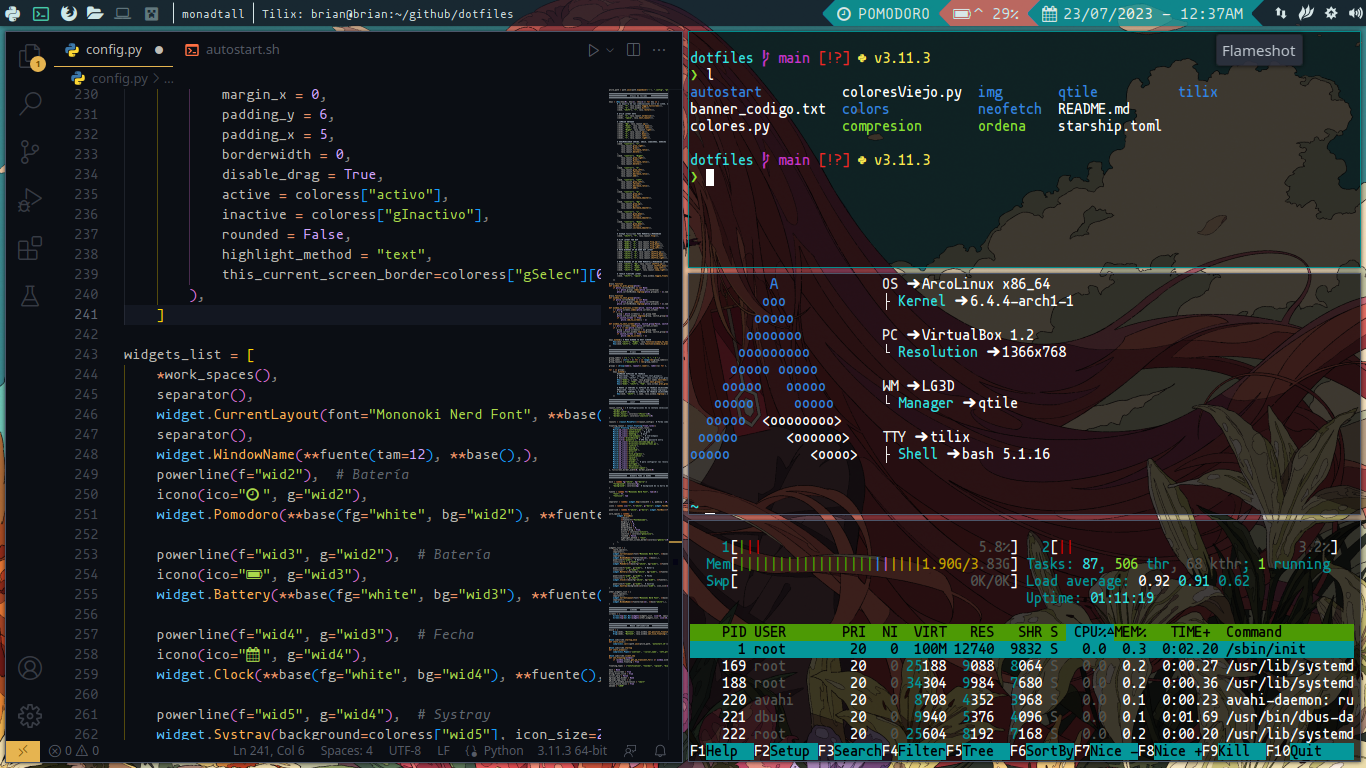
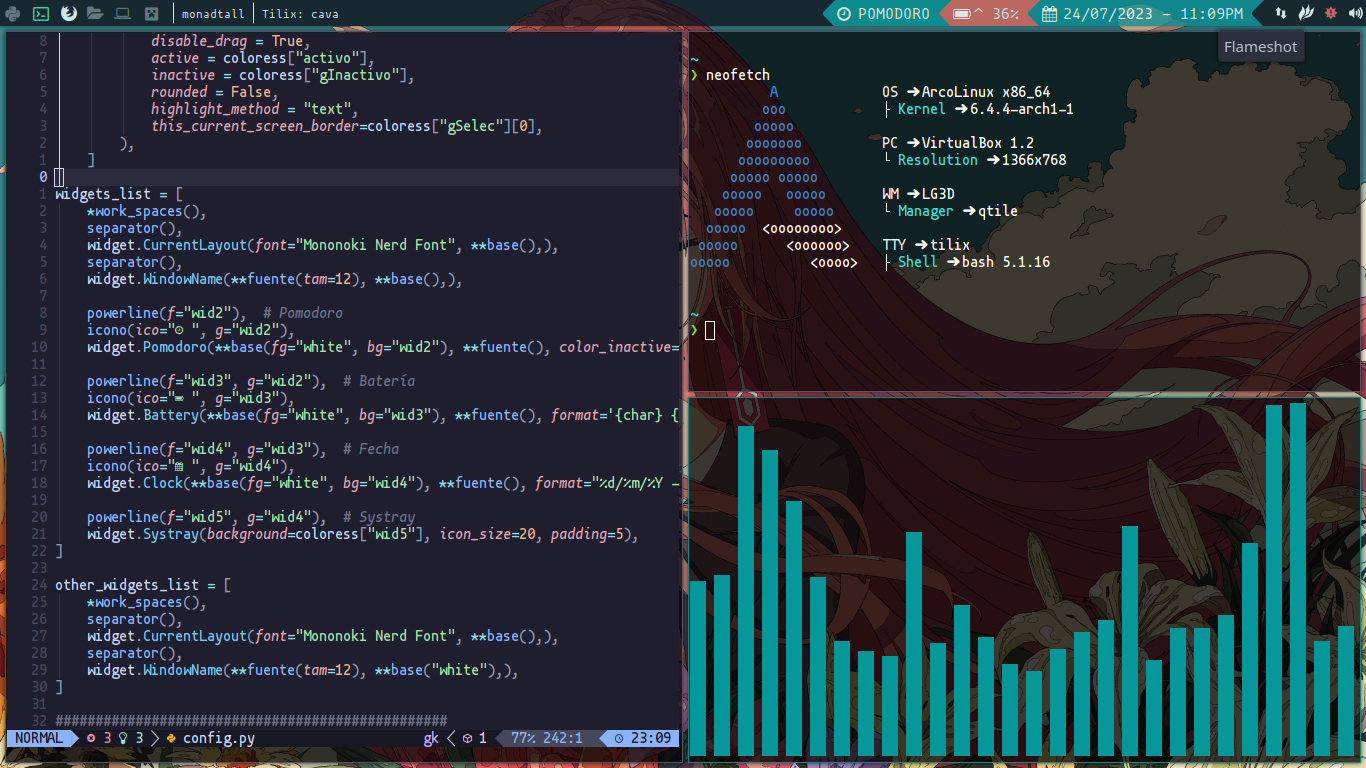
update README 24-7-2023

diff --git a/README.md b/README.md
@@ -2,10 +2,11 @@
 
 Este repositorio contiene la configuración de mis dotfiles, incluyendo la configuración de Qtile, terminal Tilix, Neofetch y Starship.rs.
 ![Escritorio](/img/escritorio.png)
-![Escritorio](/img/escritorioApps.png)
+![Escritorio](/img/escritorioApps2.png)
+![Escritorio](/img/escritorioAppsFl.png)
 ## Requisitos
 
-Antes de comenzar, asegúrate de tener instalada la terminal Tilix, flameshot y Starship.rs en tu sistema. Puedes seguir los siguientes pasos para instalarlos:
+Antes de comenzar, asegúrate de tener instalada la terminal Tilix, flameshot, neovim o vim y Starship.rs en tu sistema. Puedes seguir los siguientes pasos para instalarlos:
 
 ### Terminal Tilix
 
@@ -39,6 +40,8 @@ https://flameshot.org/docs/installation/installation-osx/
 
 Sigue los pasos de instalación de Starship.rs según el sistema operativo que estés utilizando. Puedes encontrar más información en el repositorio oficial de Starship.rs: [https://starship.rs/](https://starship.rs/)
 
+### Neovim
+Para instalar neovim puedes seguir la [guía de instalación](https://github.com/neovim/neovim/wiki/Installing-Neovim) de la página oficial
 
 ## Instalación y Uso
 
